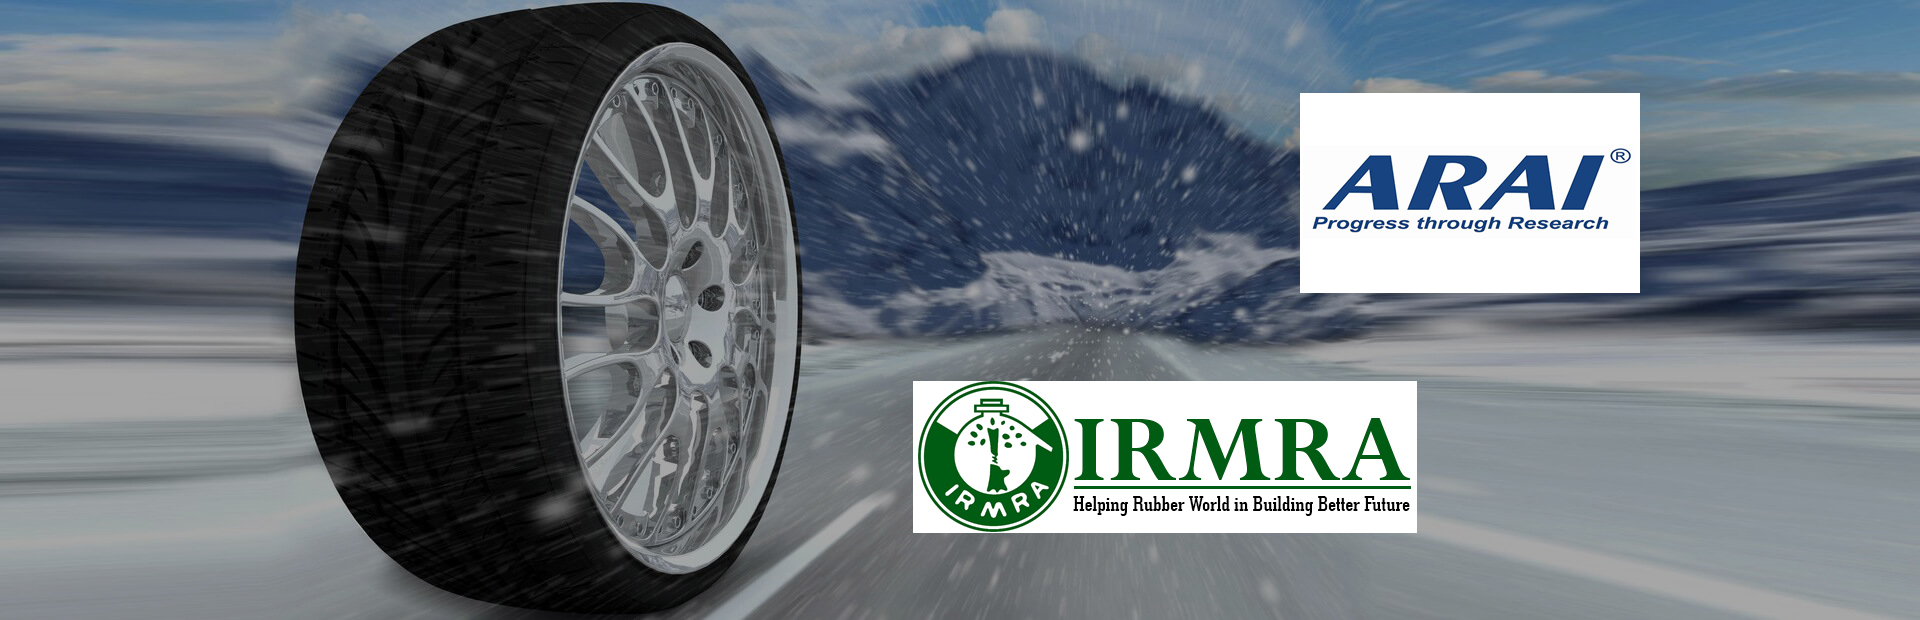
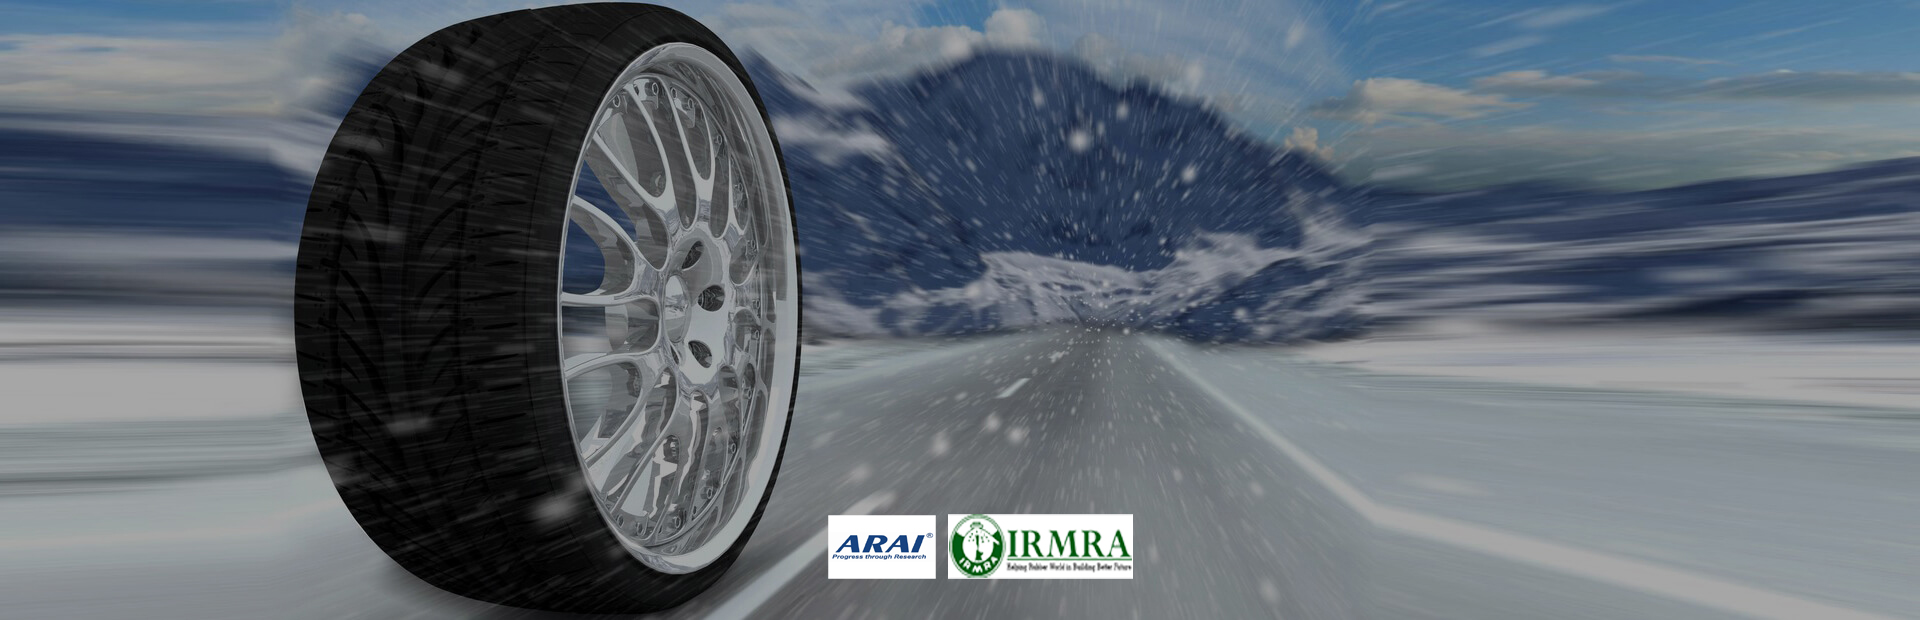
3 bg screen are fixed for mobile

Changed region(s): [[0.4062, 0.6129, 0.75, 0.95], [0.6562, 0.1226, 0.875, 0.4903]]

diff --git a/style.css b/style.css
@@ -1430,8 +1430,3 @@ body.page #main-content { padding-top: 0; padding-bottom: 0; }
 
 	.wprt-pagination, .woocommerce-pagination { margin-top: 40px; }
 }
-
-/*@media only screen and (max-width: 360px) {
-	.banner-screen { display: none; }
-}*/
-

diff --git a/index.php b/index.php
@@ -747,7 +747,7 @@
                         <div class="bottom-bar-inner-wrap">
                             <div class="bottom-bar-content">
                                 <div id="copyright">
-                                    &copy; Tyreoshield - Design by <a href="http://viveksoni100.co.in" target="_blank">@Vivek Soni.</a> All Rights Reserved.
+                                    &copy; Tyreoshield - Design by <a href="http://viveksoni100.co.in" target="_blank">@Vivek Soni.</a>
                                 </div><!-- /#copyright -->
                             </div><!-- /.bottom-bar-content -->
 
